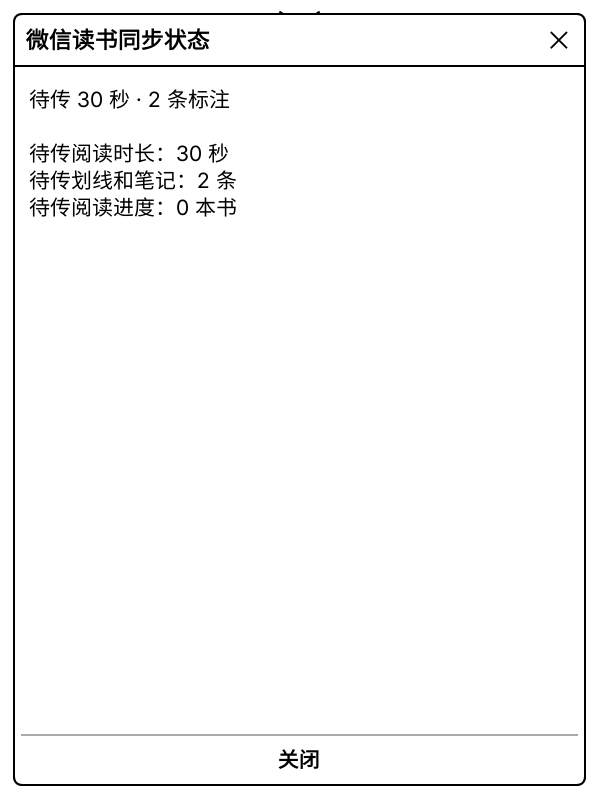
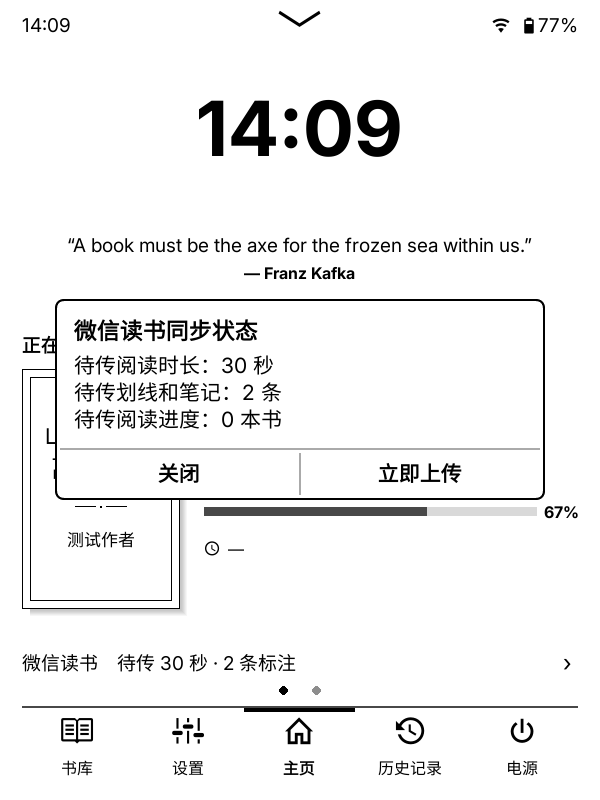
Add one-tap upload to compact Home sync details in v1.8.4

diff --git a/scripts/run_simpleui_status_simulator.py b/scripts/run_simpleui_status_simulator.py
@@ -208,6 +208,11 @@ def main() -> None:
     if result is None or result.returncode != 0:
         print(f"FAIL: {log}")
         raise SystemExit(1 if result is None else result.returncode)
+    seconds = sum(report["rt"] for report in state["read_reports"] if report["bookId"] == "900001")
+    notes = [write["payload"] for write in state["annotation_writes"] if write["path"] == "/web/review/add"]
+    received = sorted((note["bookId"], note["content"], note["isPrivate"]) for note in notes)
+    if seconds != 30 or received != [("900001", "私密笔记1", 1), ("900001", "私密笔记2", 1)]:
+        raise RuntimeError("Home upload did not deliver the expected reading time and two private notes")
     screenshots = sorted(evidence.glob("*.png"))
     if len(screenshots) != 7:
         raise RuntimeError(f"expected 7 screenshots, found {len(screenshots)}")

diff --git a/README.md b/README.md
@@ -67,7 +67,7 @@ koreader/plugins/weread.koplugin/
 
 ## SimpleUI / Zen_UI 集成
 
-**SimpleUI 首页同步状态（v1.8.2）。** 在 SimpleUI 3.1.0 上，升级并重启 KOReader 后，插件首次会在「正在阅读」书卡所在行的下方加入「微信读书同步状态」。点书卡继续阅读，点状态行查看这个账号在本机的待传进度、阅读时长、划线和私密笔记。查看详情可以离线完成。
+**SimpleUI 首页同步状态。** 在 SimpleUI 3.1.0 上，升级并重启 KOReader 后，插件首次会在「正在阅读」书卡所在行的下方加入「微信读书同步状态」。点书卡继续阅读，点状态行可在小弹窗里查看本机待传的进度、阅读时长、划线和私密笔记。查看详情可以离线完成。从 v1.8.4 起，点弹窗底部的「立即上传」即可发起同步，点「关闭」直接回到首页。
 
 有记录待传时会显示「待传 8 分钟 · 2 条标注」。需要选择阅读进度或核对上报结果时，首页会优先提示。本轮待办全部获确认后显示「已同步」和确认时间。首次使用或从旧版升级时，空队列显示「暂无待传记录」。
 

diff --git a/CHANGELOG.md b/CHANGELOG.md
@@ -2,6 +2,10 @@
 
 在发布新版本前，将面向用户的中文更新说明添加到对应版本号下。各项更新直接并列展示，不再按“新功能”或“优化与修复”等小章节分类。发布工作流只会提取与 `_meta.lua` 当前版本完全匹配的段落。
 
+## [1.8.4]
+
+- 点 SimpleUI 首页书卡下的待传状态，可在紧凑弹窗中查看详情。底部并排提供「关闭」和「立即上传」，点上传即可从首页同步待传记录。有进度冲突时仍可选择保留哪一端，离线时记录继续保存在本机。
+
 ## [1.8.3]
 
 - 修复点击「微信读书 → 离线同步 → 联网检查间隔」时 KOReader 退出的问题。现在可以打开全部六档间隔，选择后立即生效，重启后保留设置。
